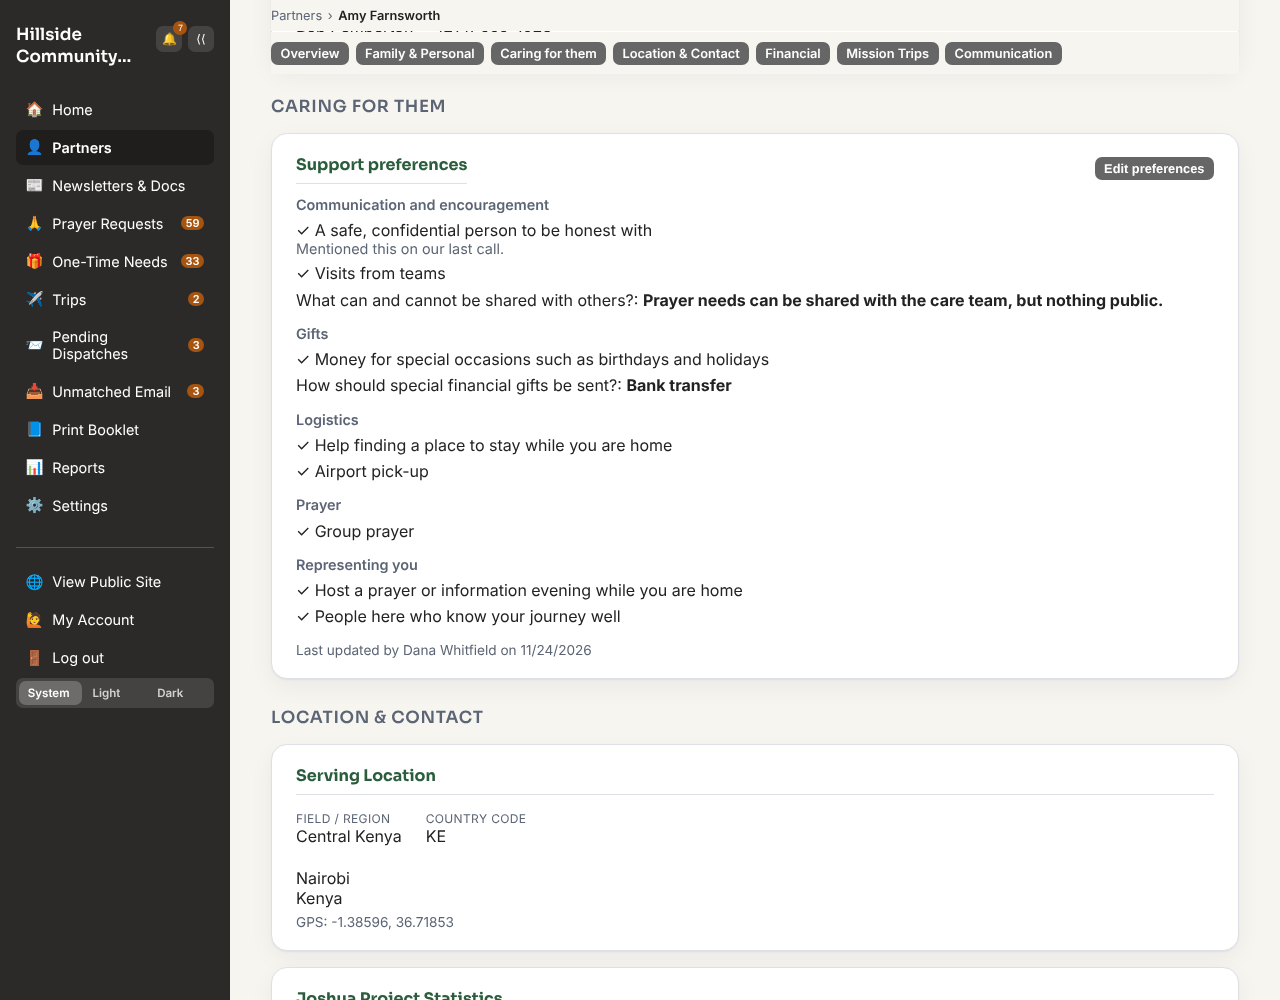
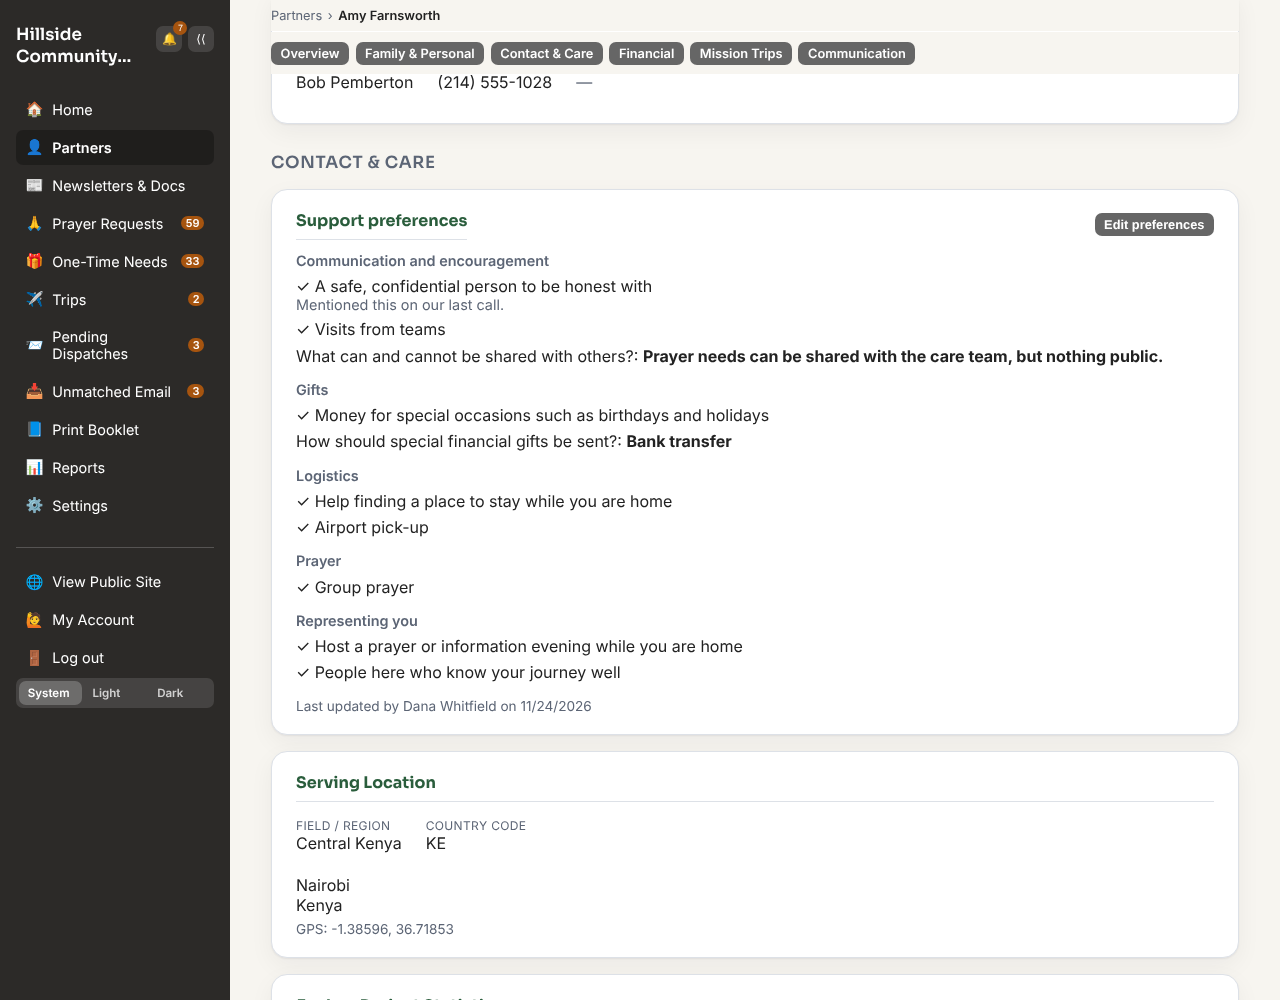
Partner page: Support preferences at the top of Contact & Care
Claude-Session: https://claude.ai/code/session_01MmRKDYXLtPvHu3ZZXFwPQ9

diff --git a/frontend/src/pages/AdminPartnerDetail.jsx b/frontend/src/pages/AdminPartnerDetail.jsx
@@ -765,9 +765,7 @@ export default function AdminPartnerDetail() {
         {[
           { label: "Overview", href: "#section-overview" },
           !isOrg && { label: "Family & Personal", href: "#section-family" },
-          enabledFeatures.supportPreferences &&
-            enabledFeatures.careTeam && { label: "Caring for them", href: "#section-caring" },
-          { label: "Location & Contact", href: "#section-location" },
+          { label: "Contact & Care", href: "#section-location" },
           ((!isGuest && enabledFeatures.monthlySupport) ||
             (enabledFeatures.oneTimeNeeds && (!isGuest || isOnCareTeamFor(id)))) && {
             label: isGuest ? "One-Time Needs" : "Financial",
@@ -1049,12 +1047,12 @@ export default function AdminPartnerDetail() {
           )}
         </div>
 
-        {enabledFeatures.supportPreferences && enabledFeatures.careTeam && (
-          <SupportPreferencesCard partnerId={p.id} isAdmin={isAdmin} inGroup />
-        )}
-
         <div className="admin-section-group" id="section-location">
-          <h2 className="admin-group-heading">Location &amp; Contact</h2>
+          <h2 className="admin-group-heading">Contact &amp; Care</h2>
+
+          {enabledFeatures.supportPreferences && enabledFeatures.careTeam && (
+            <SupportPreferencesCard partnerId={p.id} isAdmin={isAdmin} />
+          )}
 
           <EditableSection
             title="Serving Location"

diff --git a/frontend/src/components/admin/SupportPreferencesCard.jsx b/frontend/src/components/admin/SupportPreferencesCard.jsx
@@ -38,7 +38,7 @@ const rowLabel = {
   fontSize: "0.95rem",
 };
 
-export default function SupportPreferencesCard({ partnerId, isAdmin = false, inGroup = false }) {
+export default function SupportPreferencesCard({ partnerId, isAdmin = false }) {
   const [data, setData] = useState(null);
   const [hidden, setHidden] = useState(false);
   const [failed, setFailed] = useState(false);
@@ -139,15 +139,7 @@ export default function SupportPreferencesCard({ partnerId, isAdmin = false, inG
       )}
     </div>
   );
-  // On the partner page it sits under its own "Caring for them" heading, which only shows when
-  // the card does (it renders nothing for someone who can't reach it).
-  if (!inGroup) return card;
-  return (
-    <div className="admin-section-group" id="section-caring">
-      <h2 className="admin-group-heading">Caring for them</h2>
-      {card}
-    </div>
-  );
+  return card;
 }
 
 // "Last updated by Dana on 11/24/2026" from the most recent edit across the responses.

diff --git a/USER_GUIDE.md b/USER_GUIDE.md
@@ -258,7 +258,7 @@ not just what topic they fall under:
     child (Name, Birthday).
   - **Languages Spoken** — a free-text tag list.
   - **Emergency Contact** — Name, Phone, Email.
-- **Location & Contact**:
+- **Contact & Care**:
   - **Serving Location** — Field/Region Display Name (shown publicly
     even for a restricted partner, so keep it broad — "East Africa," not
     a city, or it undoes the restriction above), a full address (country
@@ -986,7 +986,7 @@ The app never contacts a partner on its own — a person always does. If you're 
 
 ### Support preferences
 
-With **Support preferences** turned on in [Enabled Features](ADMIN_GUIDE.md#feature-toggles) (it needs [Care teams](#care-teams)), each partner's page gets a **Support preferences** card, under its own **Caring for them** heading (there is a button for it in the jump bar): the ways your church and their care team can support them, and which of them this partner has asked for.
+With **Support preferences** turned on in [Enabled Features](ADMIN_GUIDE.md#feature-toggles) (it needs [Care teams](#care-teams)), each partner's page gets a **Support preferences** card, at the top of the **Contact & Care** section (jump bar): the ways your church and their care team can support them, and which of them this partner has asked for.
 
 - **The menu is your church's.** An admin edits it under **Settings → Support Preferences**: options are put in groups (rename a group any time), and each is something you **offer** (tick it if wanted), a **pick one** or **pick any** question (with an optional "something else" box), or a **free-text** question. From an empty menu, **Add an example set** gives a starting list (housing, transportation, speaking about the partner, prayer, care packages, how to send gifts and so on) to edit or delete. **Retire** an option to stop offering it while keeping the answers already given, or **Delete** it to remove it and those answers.
 - **Record a partner's choices** with **+ Record preferences** (or **Edit preferences**) on their page, after a conversation: tick what they want, pick their answers, add a note. One set per partner, so a couple or family shares it. Admins, editors and a guest on that partner's care team can record it; a viewer can read it. A trip leader never sees it.

diff --git a/CHANGELOG.md b/CHANGELOG.md
@@ -22,7 +22,7 @@ see [UPGRADING.md](UPGRADING.md) for the actual update steps.
 
 ### Added
 
-- **The top of a partner's page is shorter.** The care team is now one line on the Contact card ("Care team: Pat (lead), Casey", with Edit team or + Assign team), and Support preferences moved down into a new **Caring for them** section after Family & Personal, with its own button in the jump bar.
+- **The top of a partner's page is shorter.** The care team is now one line on the Contact card ("Care team: Pat (lead), Casey", with Edit team or + Assign team), and Support preferences now sits at the top of the **Contact & Care** section (formerly Location & Contact), which has its own jump-bar button.
 - **Visitors can choose Light or Dark on the public site** with a small switch in the header; it follows their device unless they pick one.
 - **More records carry a created date ([#383](https://github.com/neckermann/missions-partner-tracker/issues/383)).** A partner's addresses and sending party, a trip's budget lines and flight segments, and application questions now record when they were added (trips and applications already did).
 - **"Forgot your password?" on the sign-in page.** When the site can send email, anyone can ask for a link to choose a new password. The link works once and lasts an hour, a reset signs the account out everywhere else, and the reply is the same whether or not the address has an account (at most one email a minute per account). It reuses the setup-link machinery, so no database change. Not offered while email is off, on a demo, or with passwordless sign-in on.
